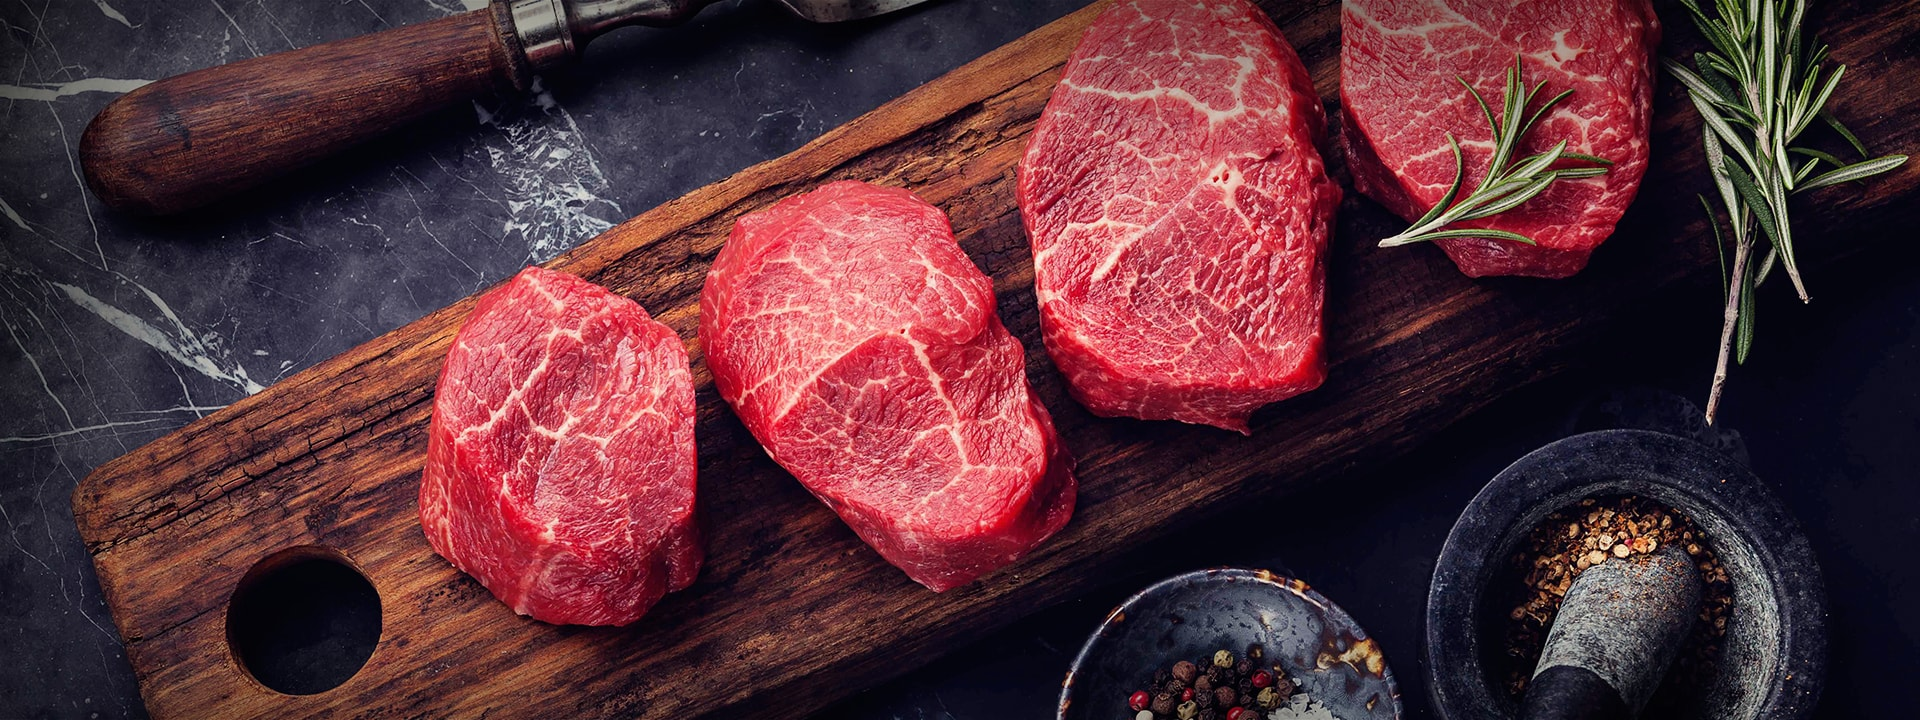
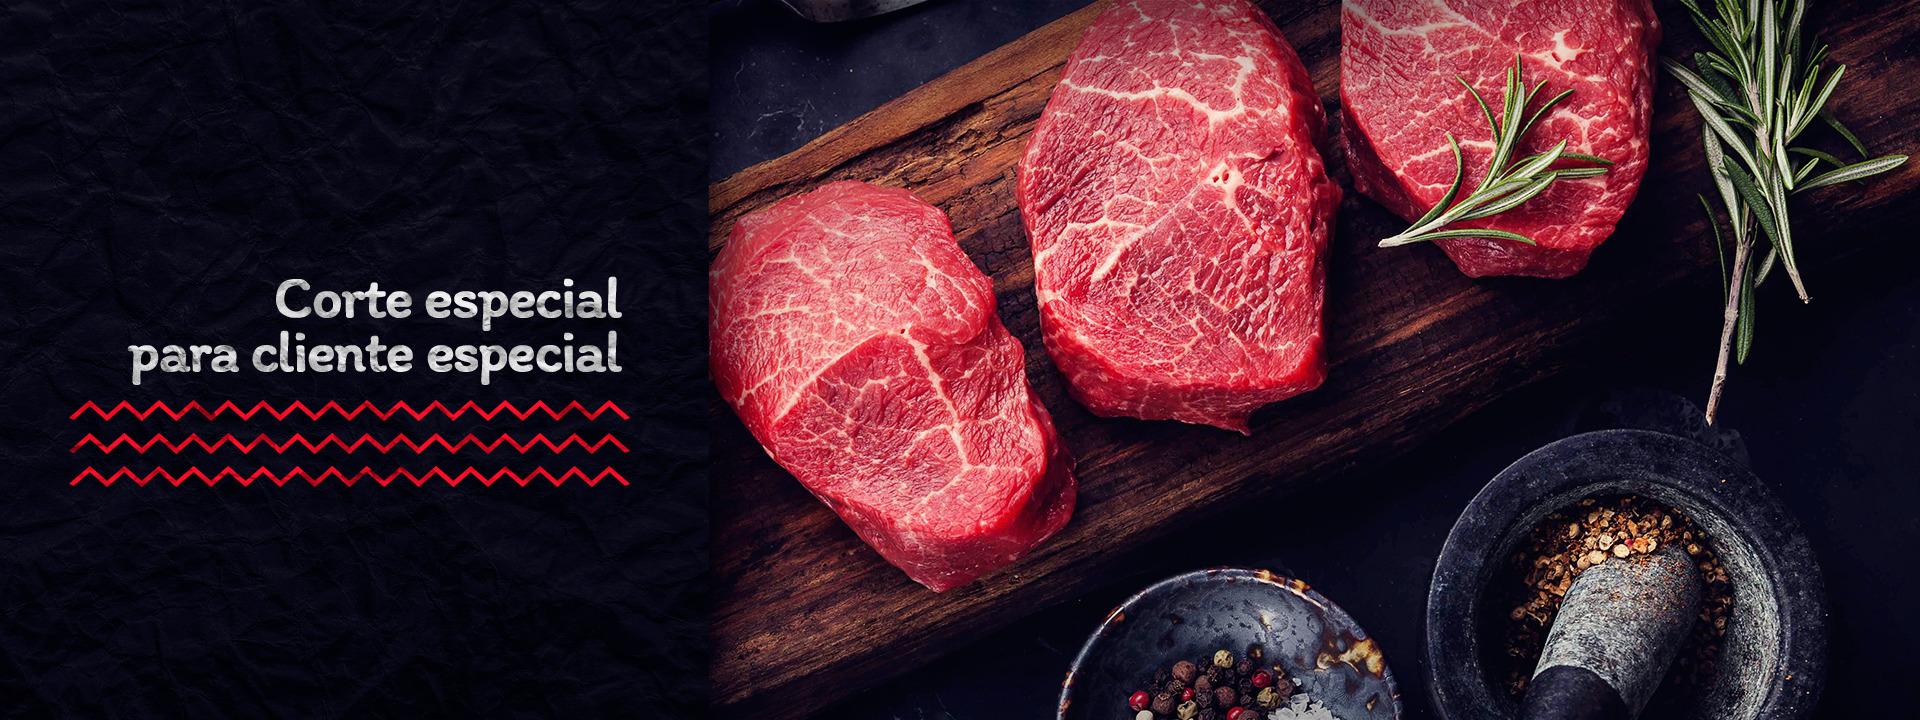
Adicion de imagenes para slider. Adicion de link para video institucional

diff --git a/video-institucional.html b/video-institucional.html
@@ -9,7 +9,7 @@
 	<meta name="keywords" content="">
 	<meta name="description" content="">
 
-	<title>Receta Adobo Arequipeño :: Gold Pig SAC :: Agropecuaria Arequipa Perú </title>
+	<title>Video Institucional :: Gold Pig SAC :: Agropecuaria Arequipa Perú </title>
 
 	<!-- FAVICON -->
 	<link rel="apple-touch-icon" sizes="57x57" href="apple-icon-57x57.png">
@@ -29,7 +29,6 @@
 	<meta name="msapplication-TileColor" content="#ffffff">
 	<meta name="msapplication-TileImage" content="ms-icon-144x144.png">
 	<meta name="theme-color" content="#ffffff">
-
 
 	<!-- FONTS -->
 	<link rel="stylesheet" href="https://fonts.googleapis.com/css?family=Poppins:300,400,500,600,700">
@@ -61,9 +60,15 @@
 	<!-- ANIMATIONS -->
 	<link rel="stylesheet" href="assets/plugins/animations/animate.min.css">
 
+	<!--VIDEO JS -->	
+	<link href="http://vjs.zencdn.net/5.19.2/video-js.css" rel="stylesheet">
+	<!-- If you'd like to support IE8 -->
+	<script src="http://vjs.zencdn.net/ie8/1.1.2/videojs-ie8.min.js"></script>
+
 	<!-- CUSTOM & PAGES STYLE -->
 	<link rel="stylesheet" href="assets/css/custom-gp.css">
 	<link rel="stylesheet" href="assets/css/pages-style-gp.css">
+
 
 </head>
 
@@ -96,13 +101,13 @@
 							<a id="mobile-menu-button" href="#"><i class="zaria-icon-hamburgermenu"></i></a>
 
 							<ul class="menu clearfix" id="menu">
-								<li><a href="index.html">Inicio</a></li> 
-								<li><a href="video-institucional.html">Institucional</a></li>
+								<li><a href="index.html">Inicio</a></li>
+								<li class="active"><a href="video-institucional.html">Institucional</a></li>
 								<li><a href="historia.html">Historia</a></li>
 								<li><a href="nosotros.html">Nosotros</a></li>
 								<li><a href="productos.html">Productos</a></li>
 								<li><a href="genetica.html">Genética</a></li>
-								<li class="active"><a href="recetas.html">Recetas</a></li>								
+								<li><a href="recetas.html">Recetas</a></li>								
 								<li><a href="contacto.html">Contacto</a></li>
 							</ul>
 
@@ -118,7 +123,7 @@
 		</header>
 		<!-- HEADER -->
 
-        <!-- CONTENT -->
+		<!-- CONTENT -->
 		<div id="page-content">
 			
 			<div id="page-header">  
@@ -126,8 +131,8 @@
 					<div class="row">
 						<div class="col-sm-12">
 							
-							<div class="text-center">
-								<h1 class="text-white text-uppercase">Adobo Arequipeño</h1>
+							<div class="">
+								<h1 class="text-white text-uppercase mb-0">Video Institucional</h1>
 							</div><!-- text-parallax -->
 							
 						</div><!-- col -->
@@ -135,87 +140,23 @@
 				</div><!-- container -->    
 			</div><!-- page-header -->
 			
-			<div class="container">
-				<div class="row">
-					<div class=" col-md-offset-2 col-md-8 col-sm-9">
-					
-						<div class="blog-article">
-						
-							<div class="blog-article-thumbnail">
-								
-								<img src="img/RECETAS/adobo-arequipeno.png" alt="-Imagen de Adobo Arequipeño">	
-							
-							</div><!-- blog-article-thumbnail -->
-							
-							<div class="blog-article-content">
-								
-								<div class="blog-article-details">
-									<p class="author">
-										<a href="recetas.html">Recetas</a>
-									</p>
-									<span class="date" href="#">Cerdo</span>
-								</div>
-								
-								<h2 class="blog-article-title text-uppercase text-center">Adobo Arequipeño</h4>
-								
-                                <h4><b>Ingredientes:</b></h4>
-								<ul>
-                                    <li>1/2 kilo de lomo de cerdo (goldpig)</li>
-									<li>50 gramos de ají colorado molido</li>
-									<li>15 gramos de ajos molido</li>
-									<li>4 cabezas de cebolla roja mediana</li>
-									<li>2 cucharaditas de vinagre tinto</li>
-									<li>1 taza de chicha de jora o cerveza negra</li>
-									<li>1 rocoto rojo de huerta</li>
-									<li>Orégano</li>
-									<li>Romero</li>
-									<li>Canela</li>
-									<li>Clavo de olor</li>
-									<li>Sal y comino al gusto </li>
-                                </ul>
-                                <br>
-                                
-                                <h4><b>Preparación:</b></h4>                                
-                                <ol class="text-justify">
-                                    <li>Coloque en una olla los lomos cortados (goldpig) sal, vinagre, aji colorado molido, ajos,comino,orégano y dos cebollas cortadas en rajas gruesas.</li>
-									<li>Licue una cebolla junto a la chicha de jora o cerveza negra y cubra las carnes con esta mezcla.</li>
-									<li>Deje reposando por varias horas. Luego cocine la mezcla hasta espesar. Agregue una cebolla más en tajadas gruesas y el rocoto entero.</li>
-									<li>Cocine hasta que la carne se encuentre tierna y el adobo tenga una consistencia espesa.5. Sirva acompañado de pan.</li>
-                                </ol>
-                                
-								<!--<div class="likes-comments">
-									<a href="#"><i class="zaria-icon-heart"></i>25</a>
-									<a href="#"><i class="zaria-icon-chat"></i>3</a>
-								</div>-->
-								
-							</div><!-- blog-article-content -->													
-							
-						</div><!-- blog-article -->
-					
-					</div><!-- col -->
-				</div><!-- row -->
-			</div><!-- container -->
 			
-            <div id="gp-pagination" class="container">
-                <div class="row">
-                    <div class="col-sm-12 text-center">
-                    	
-                        <ul class="pagination">
-							<li class="arrow"><a href="chuleta-de-cerdo-a-la-naranja.html"><i class="fa fa-angle-left"></i></a></li>
-                            <li ><a href="lomo-de-cerdo.html">1</a></li>
-                            <li><a href="cerdo-con-pina.html">2</a></li>
-                            <li><a href="cerdo-con-salsa-de-ciruelas.html">3</a></li>
-                            <li><a href="chuleta-de-cerdo-a-la-naranja.html">4</a></li>
-                            <li class="active"><a href="adobo-arequipeno.html">5</a></li>
-                            <li><a href="chuleta-de-cerdo-picante.html">6</a></li>                            
-							<li class="arrow"><a href="chuleta-de-cerdo-picante.html"><i class="fa fa-angle-right"></i></a></li>
-                        </ul>
-                        
-                    </div><!-- col -->
-                </div><!-- row -->
-            </div><!-- container -->
+			<!--Video section-->
+			<section class="video container">
+				<video id="video" src="img/goldpig.mp4" class="video-js" controls preload="auto" 
+				poster="img/SLIDER/cerdo.jpg" data-setup='{"aspectRatio":"16:9"}'>
+					  <p class="vjs-no-js">Tu navegador no implementa el elemento <code>video</code>. 
+					  <br> Actualiza tu navegador a la versión más reciente.</p>
+				</video>
+			</section> <!-- End video section -->
+			<br>
+			<br>
+			
+
 		</div><!-- PAGE CONTENT -->
-		
+	
+
+
 		<!-- FOOTER -->
 		<footer>
 			<div id="footer">
@@ -352,7 +293,6 @@
 	<script src="assets/plugins/validate/jquery.validate.min.js"></script>
 	<script src="assets/plugins/submit/jquery.form.min.js"></script>
 
-
 	<!-- CHARTS -->
 	<script src="assets/plugins/charts/jquery.easypiechart.min.js"></script>
 
@@ -370,6 +310,9 @@
 
 	<!-- COUNTDOWN -->
 	<script src="assets/plugins/countdown/jquery.countdown.min.js"></script>
+
+	<!-- VIDEO JS -->	
+	<script src="http://vjs.zencdn.net/5.19.2/video.js"></script>
 
 	<!-- CUSTOM JS -->
 	<script src="assets/js/custom.js"></script>

diff --git a/index.html b/index.html
@@ -74,8 +74,6 @@
 	<meta name="msapplication-TileImage" content="ms-icon-144x144.png">
 	<meta name="theme-color" content="#ffffff">
 
-	
-
 </head>
 
 <body>
@@ -108,6 +106,7 @@
 
 							<ul class="menu clearfix" id="menu">
 								<li class="active"><a href="index.html">Inicio</a></li>
+								<li><a href="video-institucional.html">Institucional</a></li>
 								<li><a href="historia.html">Historia</a></li>
 								<li><a href="nosotros.html">Nosotros</a></li>
 								<li><a href="productos.html">Productos</a></li>
@@ -136,7 +135,7 @@
 					<ul>
 						<li data-transition="slotfade-horizontal">
 							<div class="full-overlay"></div>
-							<img src="img/SLIDER/parrilla2.jpg" alt="Goldpig Perú - Productos de calidad">
+							<img src="img/SLIDER/parrilla.jpg" alt="Goldpig Perú - Productos de calidad">
 							
 													
 							<div class="tp-caption tp-resizeme text-center " 
@@ -147,7 +146,7 @@
 								 data-start="1800" 
 								 data-transform_in="y:100;s:700;e:Expo.easeIn;"
 								 data-transform_out="y:100;s:700;">
-								 <h4 class=" big-letter">Todos podemos hacer <br class="visible-xs"> parrillas Goldpig</h4>
+								 <!--<h4 class=" big-letter">Todos podemos hacer <br class="visible-xs"> parrillas Goldpig</h4>-->
 							</div>
 						</li>
 
@@ -163,7 +162,7 @@
 								 data-start="1800" 
 								 data-transform_in="y:100;s:700;e:Expo.easeIn;"
 								 data-transform_out="y:100;s:700;">
-								 <h4 class=" big-letter">De nuestra granja <br/> a tu mesa</h4>
+								 <!--<h4 class=" big-letter">De nuestra granja <br/> a tu mesa</h4>-->
 							</div>
 						</li>
 
@@ -178,7 +177,7 @@
 								 data-start="1800" 
 								 data-transform_in="y:100;s:700;e:Expo.easeIn;"
 								 data-transform_out="y:100;s:700;">
-								 <h4 class=" big-letter">Tenemos <br class="visible-xs">los mejores cortes</h4>
+								 <!--<h4 class=" big-letter">Tenemos <br class="visible-xs">los mejores cortes</h4>-->
 							</div>
 						</li>
 
@@ -193,7 +192,7 @@
 								 data-start="1800" 
 								 data-transform_in="y:100;s:700;e:Expo.easeIn;"
 								 data-transform_out="y:100;s:700;">
-								 <h4 class=" big-letter">Corte especial para <br class="visible-xs"> cliente especial</h4>
+								 <!--<h4 class=" big-letter">Corte especial para <br class="visible-xs"> cliente especial</h4>-->
 							</div>
 						</li>
 
@@ -208,7 +207,7 @@
 								 data-start="1800" 
 								 data-transform_in="y:100;s:700;e:Expo.easeIn;"
 								 data-transform_out="y:100;s:700;">
-								 <h4 class=" big-letter">De nuestra granja <br/> a tu mesa</h4>
+								 <!--<h4 class=" big-letter">De nuestra granja <br/> a tu mesa</h4>-->
 							</div>
 						</li>
 					</ul>

diff --git a/assets/js/custom.js b/assets/js/custom.js
@@ -780,7 +780,8 @@
 						success: function(msg) {
 							
 							if (msg == 'OK') {
-								result = '<div class="alert alert-success">Your message was successfully sent!</div>';
+								// result = '<div class="alert alert-success">Your message was successfully sent!</div>';
+								result = '<div class="alert alert-success">¡Su mensaje fue enviado con éxito!</div>';
 								$("#contact-form").clearForm();
 							} else {
 								result = msg;
@@ -791,7 +792,8 @@
 						},
 						error: function() {
 		
-							result = '<div class="alert alert-danger">There was an error sending the message!</div>';
+							// result = '<div class="alert alert-danger">There was an error sending the message!</div>';
+							result = '<div class="alert alert-danger">Se ha producido un error al enviar el mensaje.</div>';
 							$("#alert-area").html(result);
 		
 						}

diff --git a/nosotros.html b/nosotros.html
@@ -96,9 +96,10 @@
 							<a id="mobile-menu-button" href="#"><i class="zaria-icon-hamburgermenu"></i></a>
 
 							<ul class="menu clearfix" id="menu">
-								<li class="active"><a href="index.html">Inicio</a></li>
+								<li><a href="index.html">Inicio</a></li>
+								<li><a href="video-institucional.html">Institucional</a></li>
 								<li><a href="historia.html">Historia</a></li>
-								<li><a href="nosotros.html">Nosotros</a></li>
+								<li class="active"><a href="nosotros.html">Nosotros</a></li>
 								<li><a href="productos.html">Productos</a></li>
 								<li><a href="genetica.html">Genética</a></li>
 								<li><a href="recetas.html">Recetas</a></li>								

diff --git a/historia.html b/historia.html
@@ -93,6 +93,7 @@
 
 							<ul class="menu clearfix" id="menu">
 								<li><a href="index.html">Inicio</a></li>
+								<li><a href="video-institucional.html">Institucional</a></li>
 								<li  class="active"><a href="historia.html">Historia</a></li>
 								<li><a href="nosotros.html">Nosotros</a></li>
 								<li><a href="productos.html">Productos</a></li>

diff --git a/contacto.html b/contacto.html
@@ -103,6 +103,7 @@
 
 							<ul class="menu clearfix" id="menu">
 								<li><a href="index.html">Inicio</a></li>
+								<li><a href="video-institucional.html">Institucional</a></li>
 								<li><a href="historia.html">Historia</a></li>
 								<li><a href="nosotros.html">Nosotros</a></li>
 								<li><a href="productos.html">Productos</a></li>

diff --git a/cerdo-con-pina.html b/cerdo-con-pina.html
@@ -97,6 +97,7 @@
 
 							<ul class="menu clearfix" id="menu">
 								<li><a href="index.html">Inicio</a></li>
+								<li><a href="video-institucional.html">Institucional</a></li>
 								<li><a href="historia.html">Historia</a></li>
 								<li><a href="nosotros.html">Nosotros</a></li>
 								<li><a href="productos.html">Productos</a></li>

diff --git a/chuleta-de-cerdo-a-la-naranja.html b/chuleta-de-cerdo-a-la-naranja.html
@@ -97,6 +97,7 @@
 
 							<ul class="menu clearfix" id="menu">
 								<li><a href="index.html">Inicio</a></li>
+								<li><a href="video-institucional.html">Institucional</a></li>
 								<li><a href="historia.html">Historia</a></li>
 								<li><a href="nosotros.html">Nosotros</a></li>
 								<li><a href="productos.html">Productos</a></li>

diff --git a/genetica.html b/genetica.html
@@ -98,6 +98,7 @@
 
 							<ul class="menu clearfix" id="menu">
 								<li><a href="index.html">Inicio</a></li>
+								<li><a href="video-institucional.html">Institucional</a></li>
 								<li><a href="historia.html">Historia</a></li>
 								<li><a href="nosotros.html">Nosotros</a></li>
 								<li><a href="productos.html">Productos</a></li>

diff --git a/lomo-de-cerdo.html b/lomo-de-cerdo.html
@@ -97,6 +97,7 @@
 
 							<ul class="menu clearfix" id="menu">
 								<li><a href="index.html">Inicio</a></li>
+								<li><a href="video-institucional.html">Institucional</a></li>
 								<li><a href="historia.html">Historia</a></li>
 								<li><a href="nosotros.html">Nosotros</a></li>
 								<li><a href="productos.html">Productos</a></li>

diff --git a/recetas-2.html b/recetas-2.html
@@ -97,6 +97,7 @@
 
 							<ul class="menu clearfix" id="menu">
 								<li><a href="index.html">Inicio</a></li>
+								<li><a href="video-institucional.html">Institucional</a></li>
 								<li><a href="historia.html">Historia</a></li>
 								<li><a href="nosotros.html">Nosotros</a></li>
 								<li><a href="productos.html">Productos</a></li>
